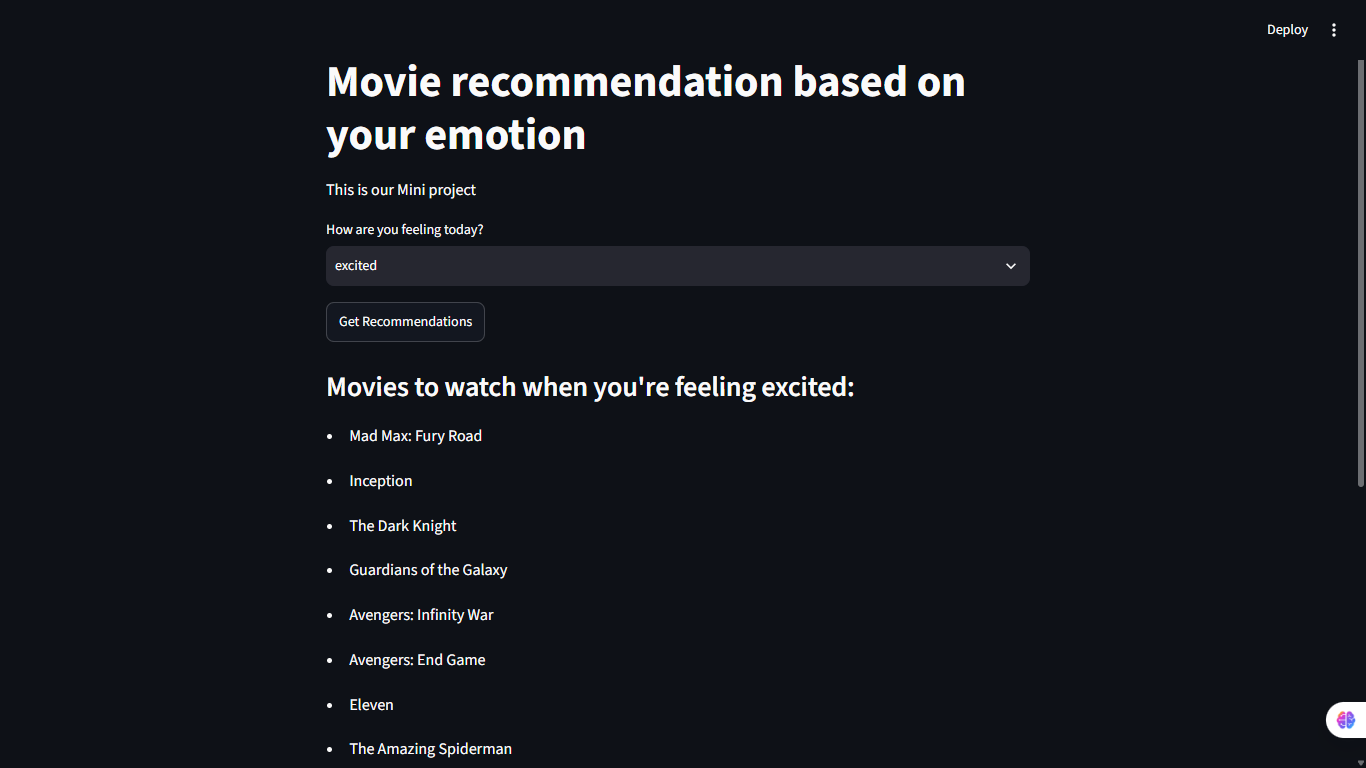
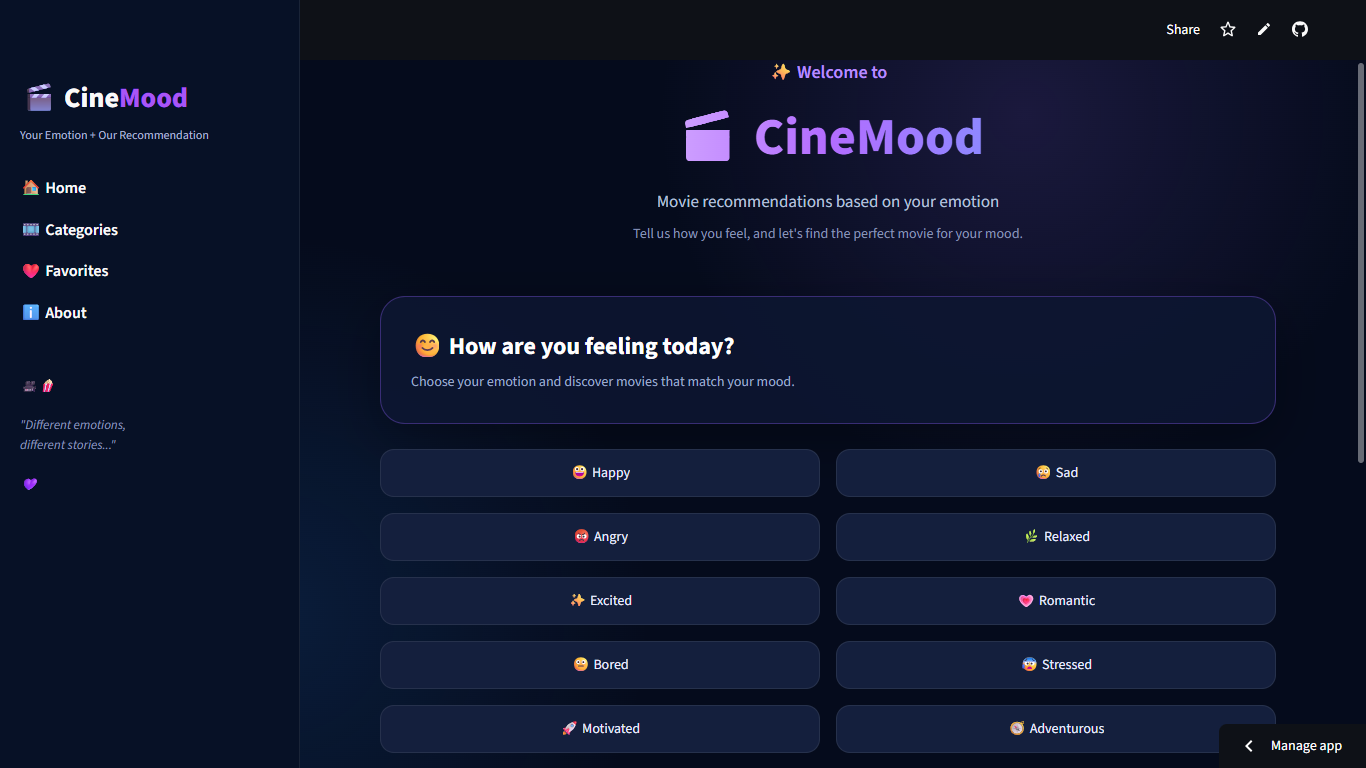
updated code

diff --git a/index.html b/index.html
@@ -125,7 +125,7 @@
       <div class="projects-grid">
         <article class="project-card reveal">
           <div class="project-image"><img src="assets/images/emotion-movie-recommender.png" alt="Movie Recommendation Based on Emotion project screenshot"></div>
-          <div class="project-content"><h3>Movie Recommender (Emotion-Based)</h3><p>Suggests movies to watch based on the user's selected mood/emotion.</p><div class="tags"><span>Python</span><span>Streamlit</span></div><a href="https://movie-recommendation-based-on-your-emotion-ma6orbxxivrhsrppne4.streamlit.app/" class="project-link" target="_blank">↗</a></div>
+          <div class="project-content"><h3>Movie Recommender (Emotion-Based)</h3><p>Suggests movies to watch based on the user's selected mood/emotion.</p><div class="tags"><span>Python</span><span>Streamlit</span></div><a href="https://movie-recommendation-based-on-your-emotion-hakgtxjtxgjrmab5gwy.streamlit.app/" class="project-link" target="_blank">↗</a></div>
         </article>
         <article class="project-card reveal">
           <div class="project-image"><img src="assets/images/multimodal-classifier.png" alt="Multimodal Classifier dashboard screenshot"></div>
